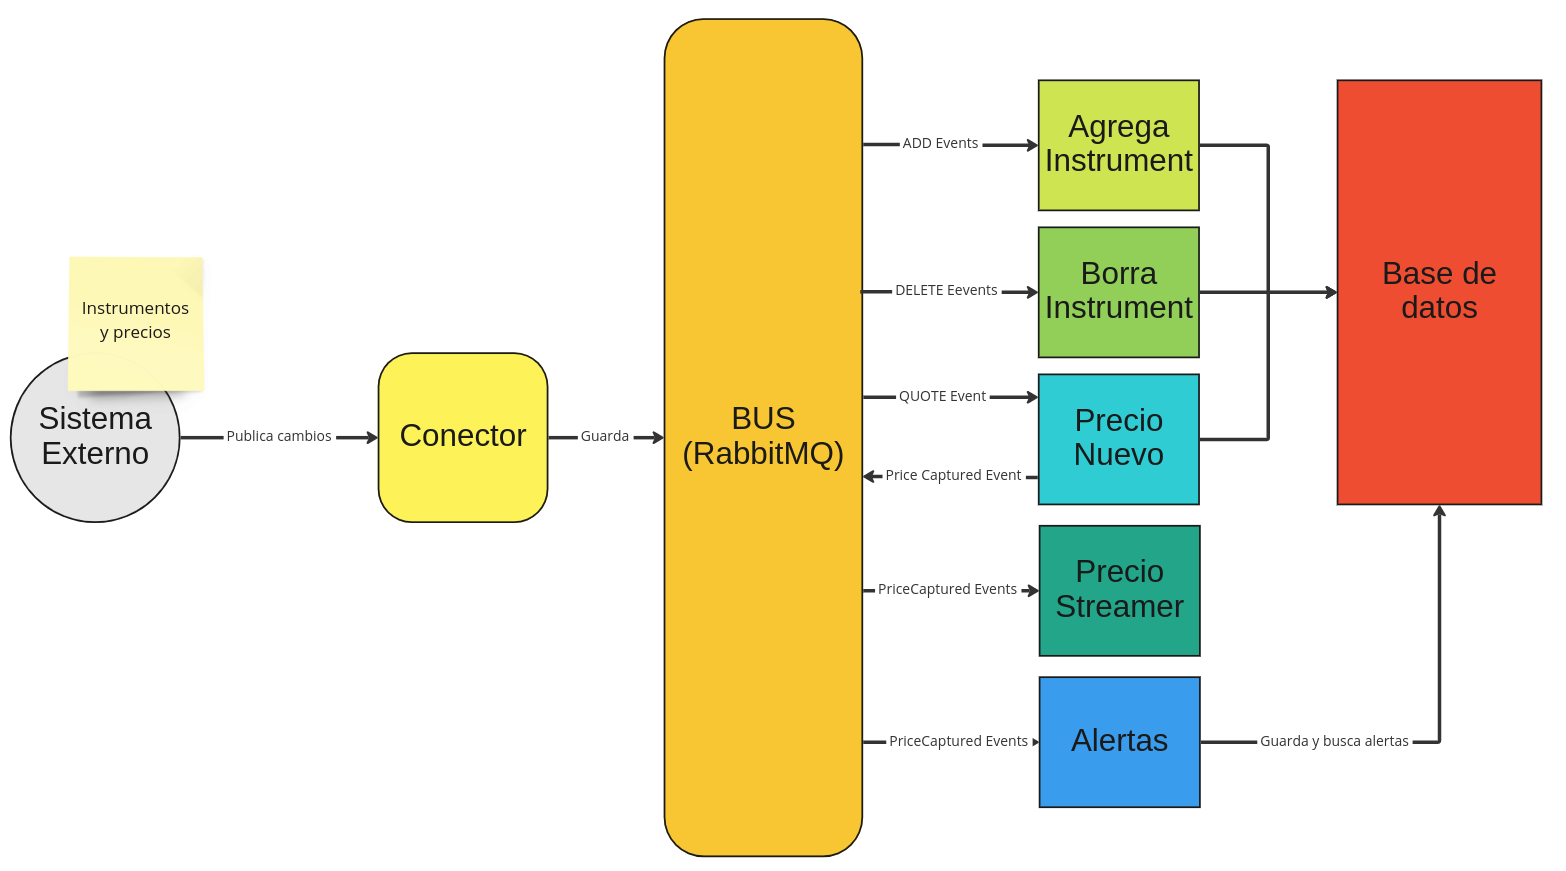
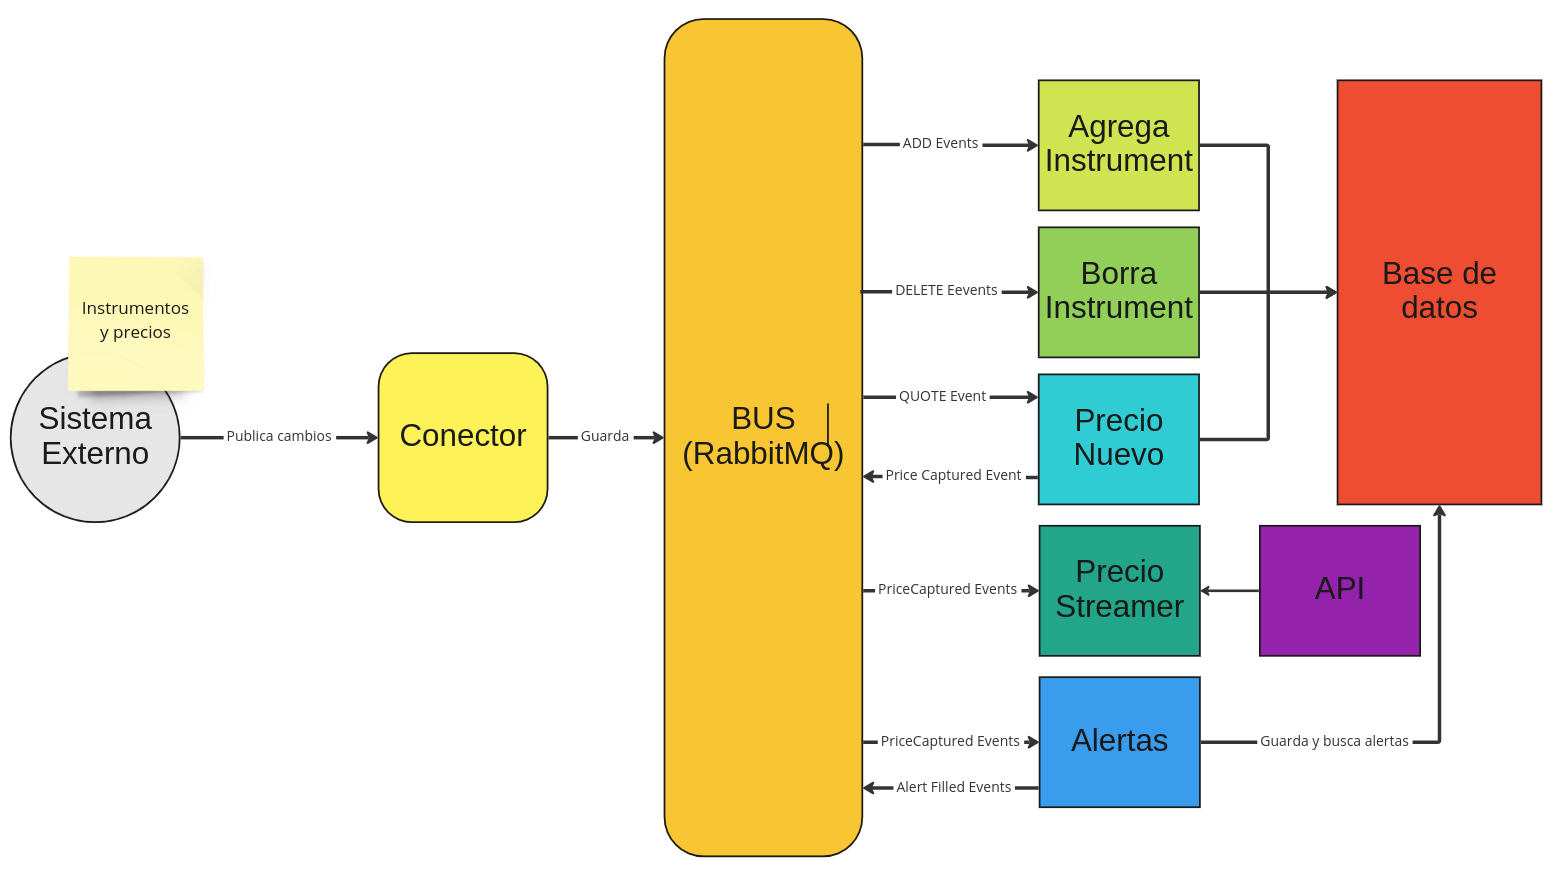
chore: publish alert fileed events into the bus

Changed region(s): [[0.7663, 0.589, 0.9195, 0.775], [0.5517, 0.837, 0.6743, 0.868], [0.5517, 0.899, 0.6437, 0.93]]

diff --git a/src/main/kotlin/com/ph/mdc/application/alert/service/AlertService.kt b/src/main/kotlin/com/ph/mdc/application/alert/service/AlertService.kt
@@ -1,12 +1,15 @@
 package com.ph.mdc.application.alert.service
 
+import com.fasterxml.jackson.databind.ObjectMapper
 import com.ph.mdc.application.alert.model.Alert
 import com.ph.mdc.application.alert.repository.AlertRepository
 import com.ph.mdc.application.instrument.model.Direction
 import com.ph.mdc.application.instrument.model.Quote
 import com.ph.mdc.application.instrument.repository.InstrumentRepository
 import com.ph.mdc.bus.AlertEventEmitter
+import com.ph.mdc.messaging.model.MessagingProperties
 import org.slf4j.LoggerFactory
+import org.springframework.amqp.rabbit.core.RabbitTemplate
 import org.springframework.stereotype.Service
 import reactor.core.publisher.Flux
 import reactor.core.publisher.Mono
@@ -16,7 +19,9 @@ import java.math.BigDecimal
 class AlertService(
     private val alertRepository: AlertRepository,
     private val instrumentRepository: InstrumentRepository,
-    private val alertEventEmitter: AlertEventEmitter
+    private val messagingProperties: MessagingProperties,
+    private val rabbitTemplate: RabbitTemplate,
+    private val objectMapper: ObjectMapper
 ) {
 
     companion object {
@@ -45,17 +50,26 @@ class AlertService(
     fun validateAlert(quote: Quote) {
         alertRepository.findByIsin(quote.isin)
             .flatMap { alert ->
+                val alertString = objectMapper.writeValueAsString(alert)
                 if (alert.direction == Direction.UP && quote.price >= alert.price) {
                     alertRepository.save(alert.copy(direction = Direction.DOWN))
                         .doOnSuccess {
                             logger.info("alert ${alert.id} matched, ${Direction.UP}, ${alert.price}")
-                            alertEventEmitter.publish(alert)
+                            rabbitTemplate.convertAndSend(
+                                messagingProperties.name,
+                                messagingProperties.alertFilledTopic,
+                                alertString
+                            )
                         }
                 } else if (alert.direction == Direction.DOWN && quote.price <= alert.price) {
                     alertRepository.save(alert.copy(direction = Direction.UP))
                         .doOnSuccess {
                             logger.info("alert ${alert.id} matched, ${Direction.DOWN}, ${alert.price}")
-                            alertEventEmitter.publish(alert)
+                            rabbitTemplate.convertAndSend(
+                                messagingProperties.name,
+                                messagingProperties.alertFilledTopic,
+                                alertString
+                            )
                         }
                 } else {
                     Mono.just(alert)

diff --git a/src/main/kotlin/com/ph/mdc/bus/EventEmitter.kt b/src/main/kotlin/com/ph/mdc/bus/EventEmitter.kt
@@ -1,6 +1,5 @@
 package com.ph.mdc.bus
 
-import com.ph.mdc.application.alert.model.Alert
 import com.ph.mdc.application.instrument.model.Quote
 import org.springframework.stereotype.Component
 import reactor.core.publisher.Flux
@@ -20,19 +19,6 @@ class QuoteEventEmitter : EventEmitter<Quote> {
     }
 
     override fun stream(): Flux<Quote> {
-        return sink.asFlux()
-    }
-}
-
-@Component
-class AlertEventEmitter : EventEmitter<Alert> {
-    private val sink = Sinks.many().multicast().onBackpressureBuffer<Alert>()
-
-    override fun publish(event: Alert) {
-        sink.tryEmitNext(event)
-    }
-
-    override fun stream(): Flux<Alert> {
         return sink.asFlux()
     }
 }

diff --git a/src/main/kotlin/com/ph/mdc/messaging/model/MessagingProperties.kt b/src/main/kotlin/com/ph/mdc/messaging/model/MessagingProperties.kt
@@ -11,4 +11,5 @@ class MessagingProperties {
     var deleteIsinTopic = ""
     var quoteTopic = ""
     var quoteCapturedTopic = ""
+    var alertFilledTopic = ""
 }

diff --git a/README.md b/README.md
@@ -37,3 +37,9 @@ As well the system have an internal bus created with spring webflux to handle su
 and the main core.
 
 ![architecture](./architecture.png)
+
+- Connector: it allows the system to have a back pressure by just converting and filtering events and publish them in
+the bus
+- RabbitMQ: It has several topics inside by event type, and it has one queue to one each topic
+- The three types of events are process by separate components.
+- Some components create new events that are send back into the bus
